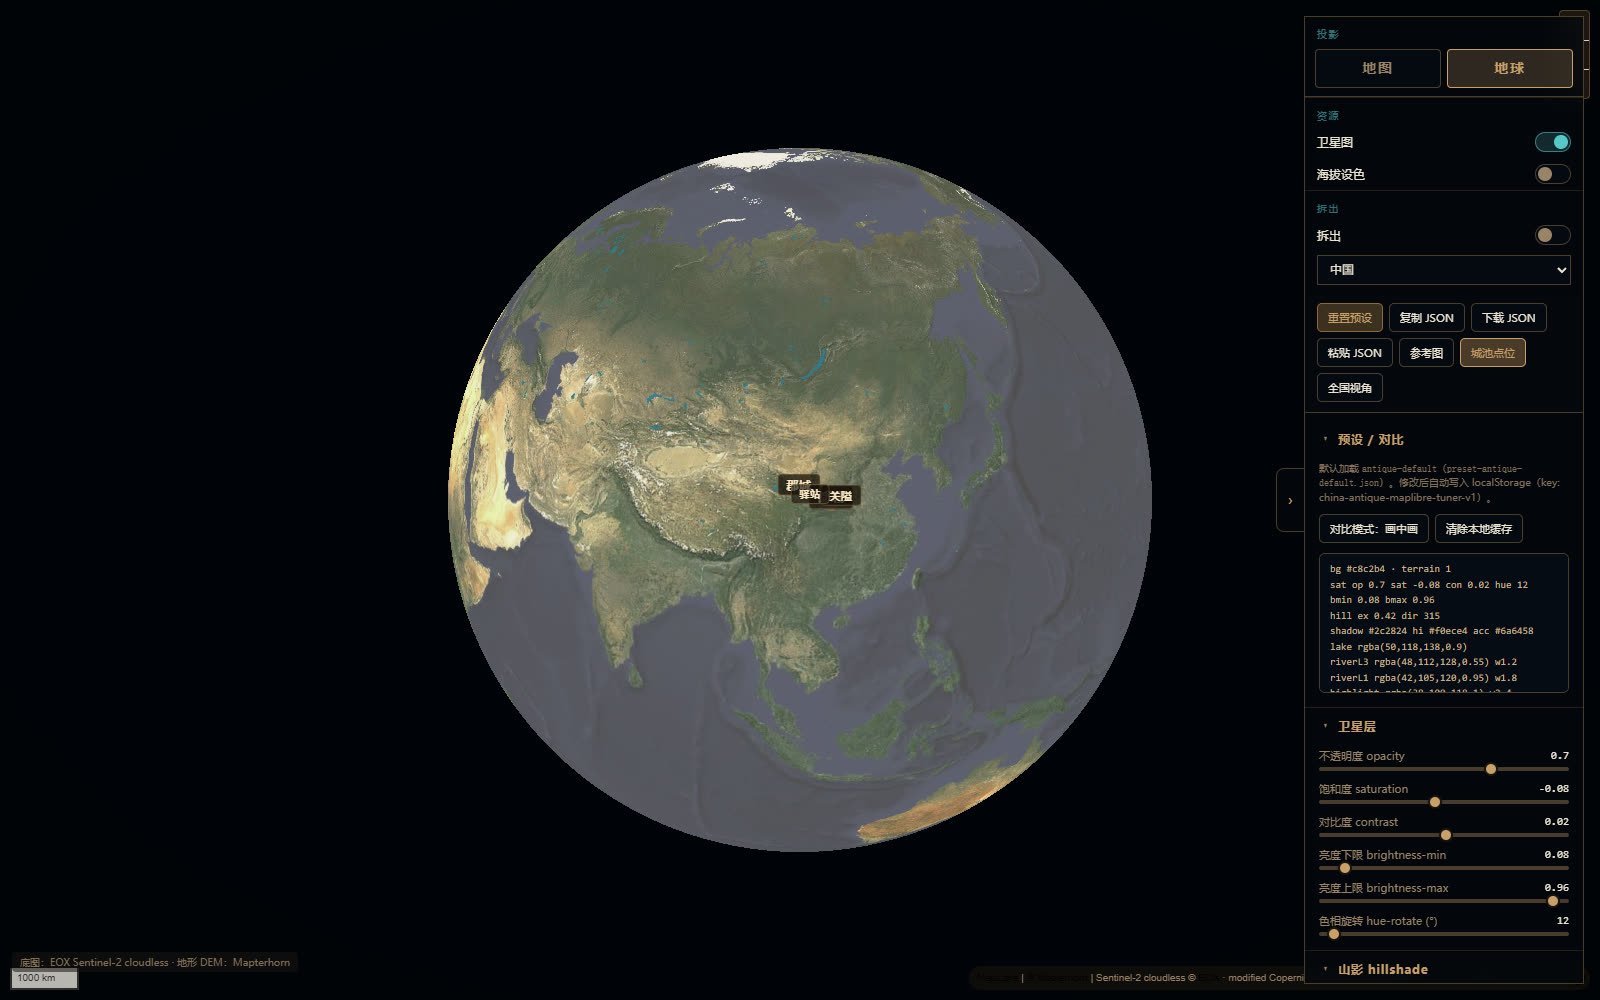
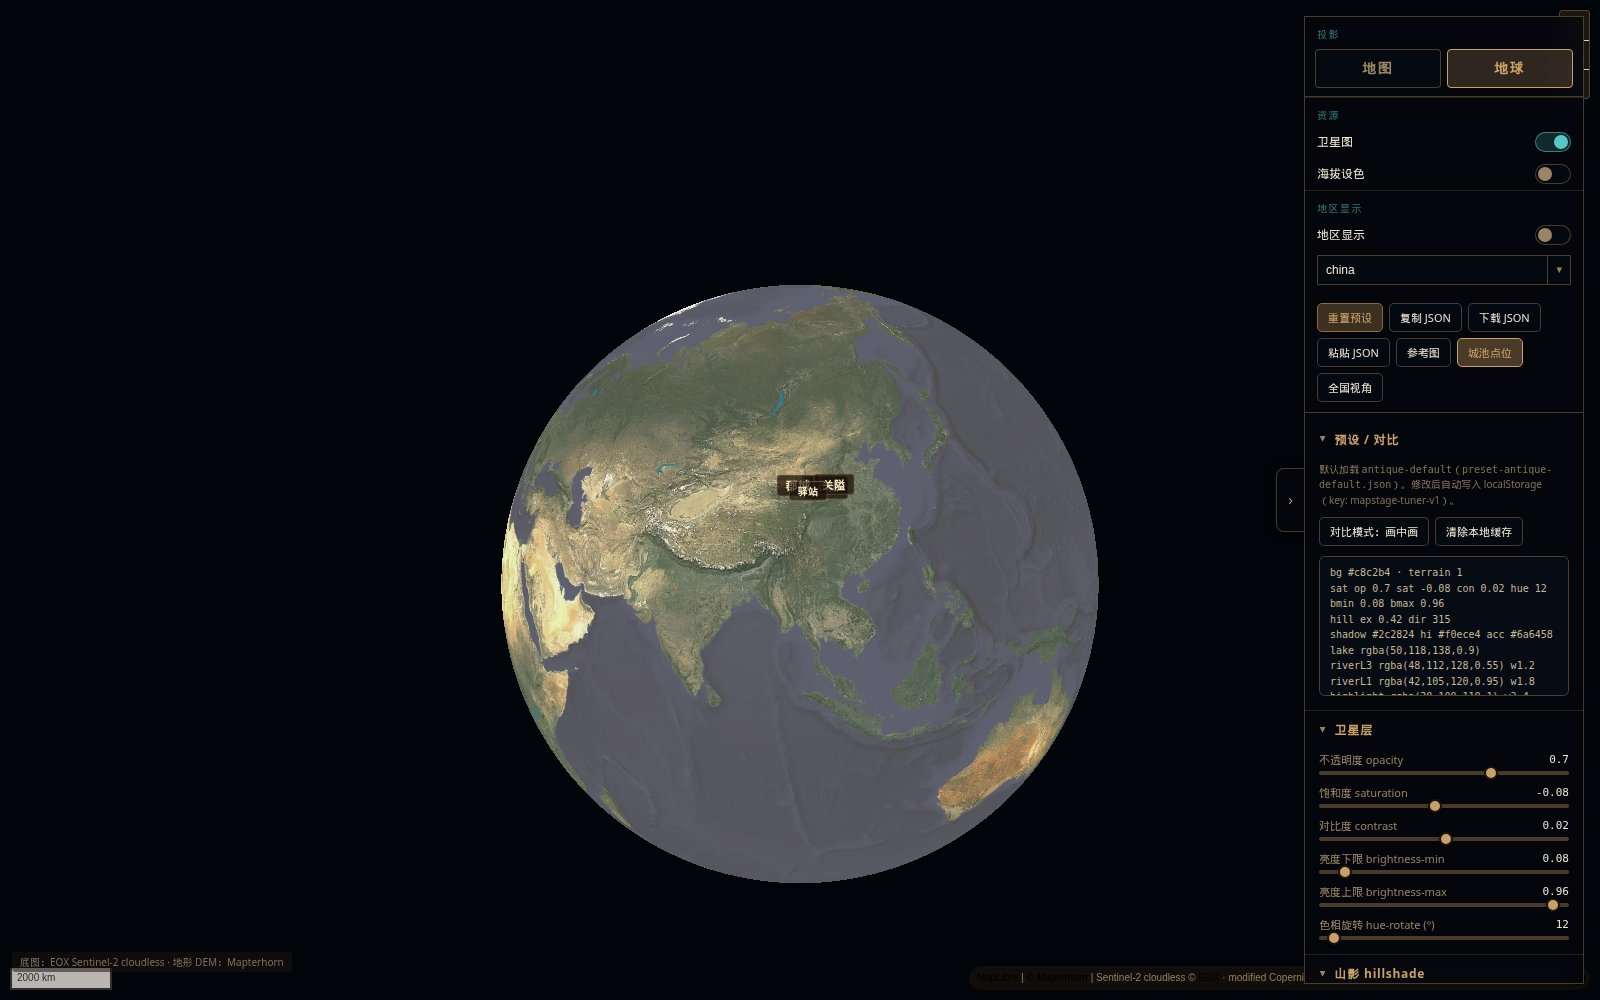
Refresh tuner showcase shots and rename isolate captions
Replace the four README JPEG showcases with fresh MapStage tuner
captures (China map, Hexi 3D pitch, globe, region isolate) and align
Chinese/English isolate wording with 地区显示 / region display.

diff --git a/README.zh-CN.md b/README.zh-CN.md
@@ -2,7 +2,7 @@
 
 [English](README.md) | **中文**
 
-开源 **MapStage 调参器**：地图 / 地球投影、卫星底图、海拔设色、三维地形、区域拆出，参数可导出 JSON。
+开源 **MapStage 调参器**：地图 / 地球投影、卫星底图、海拔设色、三维地形、地区显示，参数可导出 JSON。
 
 ## 在线演示
 
@@ -11,7 +11,7 @@
 
 ## 更新说明
 
-- **地图 / 地球** 投影切换；卫星与海拔设色互相独立；可选区域拆出（独立地形块）。
+- **地图 / 地球** 投影切换；卫星与海拔设色互相独立；可选地区显示（独立地形块）。
 - 山影与三维地形改为 **Mapterhorn** DEM（原先为 AWS Terrarium）。
 - 水系为内置 OpenFreeMap / OpenMapTiles 矢量水。
 - 色调滤镜可开关；复制 JSON 含当前相机与资源开关。
@@ -19,7 +19,7 @@
 
 ## 效果展示
 
-当前调参器：全国地图、三维地形、地球、拆出。
+当前调参器：全国地图、三维地形、地球、地区显示。
 
 <table>
   <tr>
@@ -38,8 +38,8 @@
       <br /><sub>调参器 · 地球</sub>
     </td>
     <td align="center" width="50%">
-      <img src="showcases/preview-tuner-isolate.jpg" alt="调参器拆出" />
-      <br /><sub>调参器 · 拆出</sub>
+      <img src="showcases/preview-tuner-isolate.jpg" alt="调参器地区显示" />
+      <br /><sub>调参器 · 地区显示</sub>
     </td>
   </tr>
 </table>
@@ -51,7 +51,7 @@
 | 默认底图 | **EOX Sentinel-2 cloudless**（公开演示 WMTS，请自行遵守图源条款） |
 | 地形 / 山影 | **Mapterhorn** DEM（运行时拉取；Terrarium 编码） |
 | 水系 | OpenFreeMap / OpenMapTiles 矢量水 |
-| 风格 | 色调滤镜、地图/地球、拆出地形块、`HanCity3D` 城池 |
+| 风格 | 色调滤镜、地图/地球、地区显示地形块、`HanCity3D` 城池 |
 | 许可证 | 代码/文档 [MIT](LICENSE)；展示媒体与第三方条款见 [LICENSE-EXCEPTIONS.md](LICENSE-EXCEPTIONS.md) / [NOTICE.md](NOTICE.md) |
 | 在线演示 | [在线演示](https://hopechen067.github.io/MapStage/) — Pages 将 `mapstage/tuner` 发布到站点根路径 |
 
@@ -131,7 +131,7 @@ node verify.mjs
 ## 功能
 
 - **可配置栅格底图** — 默认 [EOX Sentinel-2 cloudless](https://s2maps.eu)；其他源用 gitignore 的 `map-tiles.config.local.js`。
-- **Mapterhorn 山影 + 三维地形** — Terrarium 编码；地图/地球投影；可选区域拆出。
+- **Mapterhorn 山影 + 三维地形** — Terrarium 编码；地图/地球投影；可选地区显示。
 - **矢量水系** — OpenFreeMap / OpenMapTiles（内置）。
 - **色调滤镜** — sepia / 暖调 / 暗角 / 画笔；滤镜可关；导出 JSON 预设。
 - **城池分级** — 都城 / 大城 / 中城 / 小城 / 关隘 / 驿站 / 都护等。

diff --git a/README.md b/README.md
@@ -38,8 +38,8 @@ Current tuner: national map, 3D terrain, globe, isolate.
       <br /><sub>Tuner · globe</sub>
     </td>
     <td align="center" width="50%">
-      <img src="showcases/preview-tuner-isolate.jpg" alt="Tuner isolate China terrain island" />
-      <br /><sub>Tuner · isolate</sub>
+      <img src="showcases/preview-tuner-isolate.jpg" alt="Tuner region isolate (China terrain island)" />
+      <br /><sub>Tuner · isolate (region display)</sub>
     </td>
   </tr>
 </table>
